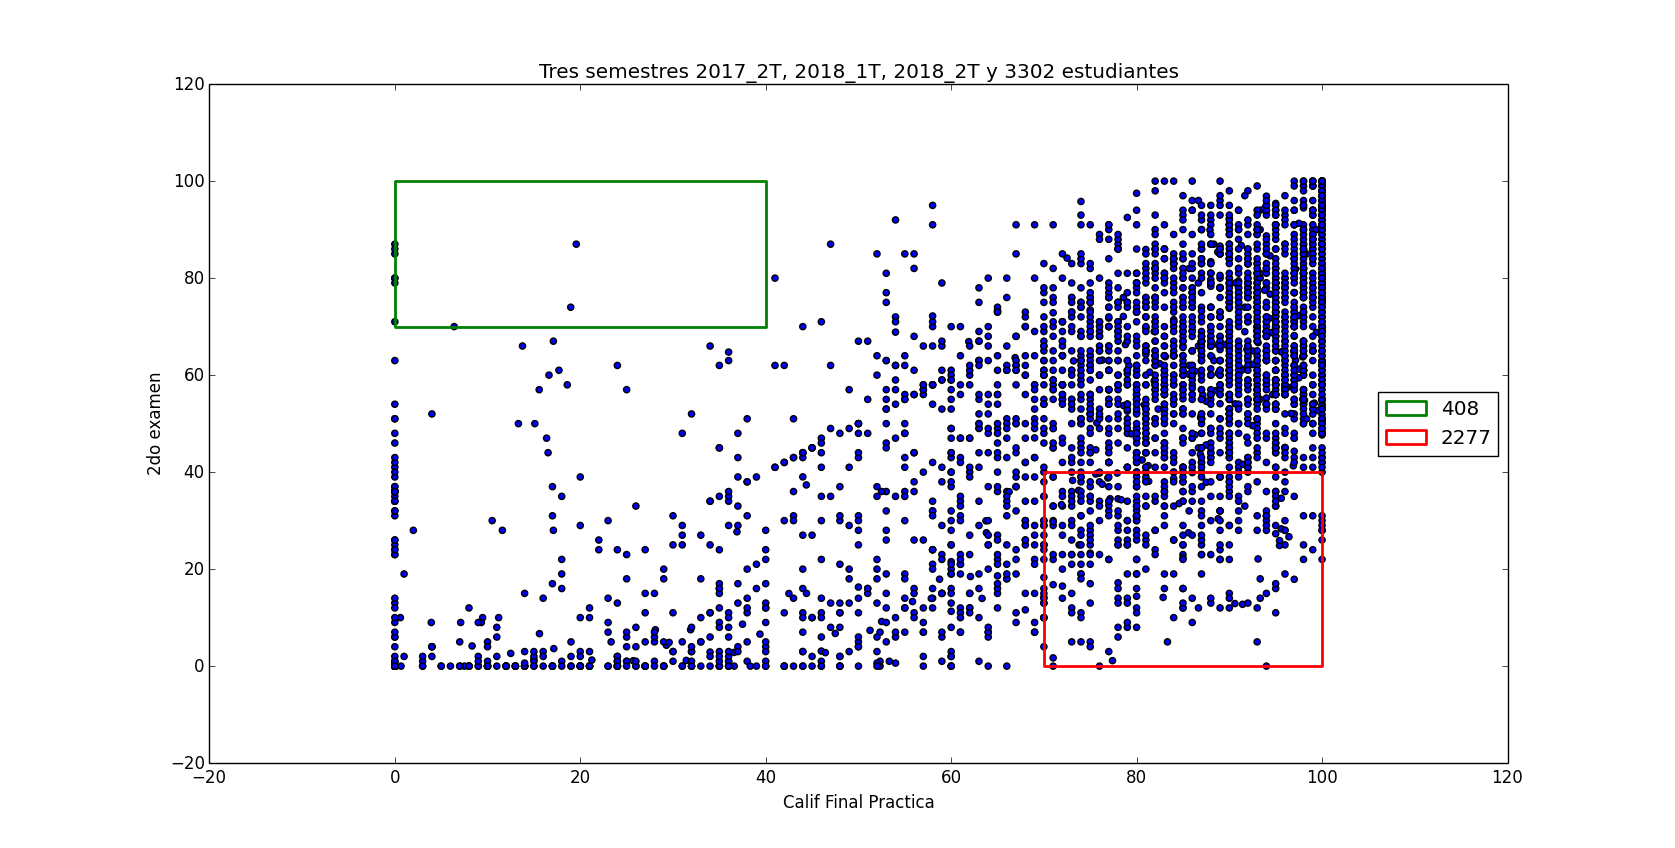
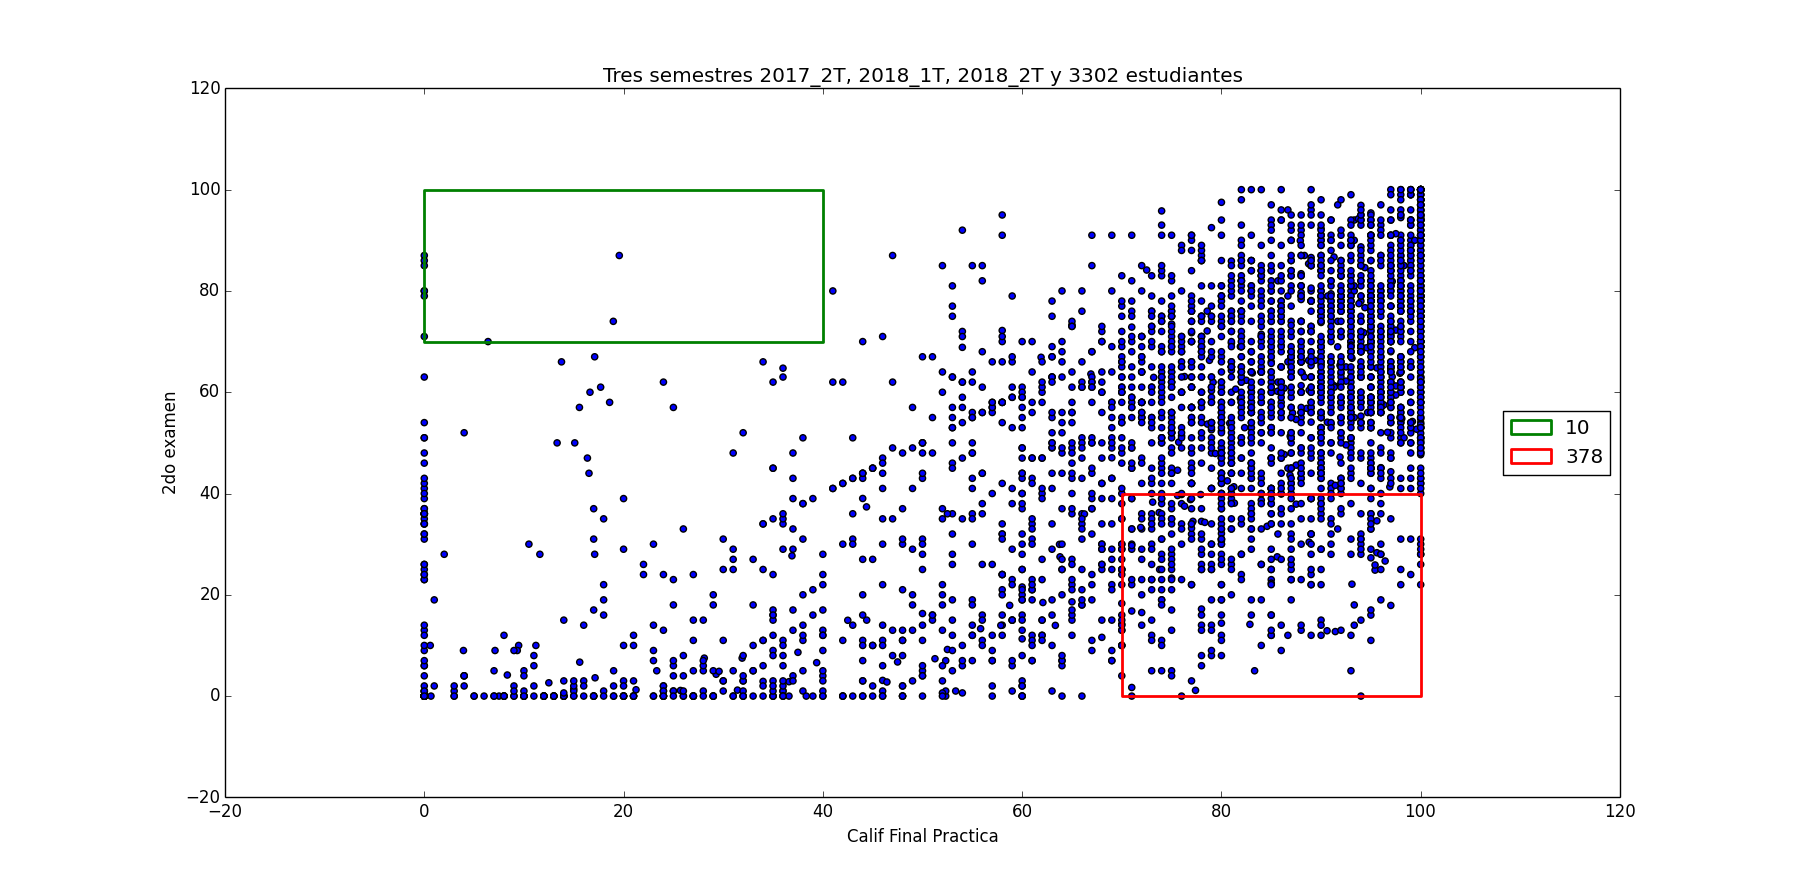
paralelos 11 17

diff --git a/anomalias_notas_practico_examen.py b/anomalias_notas_practico_examen.py
@@ -27,14 +27,19 @@ for semestre in semestres:
 
 
 #Practica < 40 y Examen > 70
-x = examen[practico<40]
-cant1 = (x>70).size
+cant1 = 0
+for i,p in enumerate(practico):
+	e = examen[i]
+	if(p<=40 and e >= 70):
+		cant1 +=1
 
 
 #Practica > 70 y Examen < 40
-x = examen[practico>70]
-cant2 = (x<40).size
-
+cant2 = 0
+for i,p in enumerate(practico):
+	e = examen[i]
+	if(p>=70 and e <= 40):
+		cant2 +=1
 
 
 fig,ax = plt.subplots(1)
